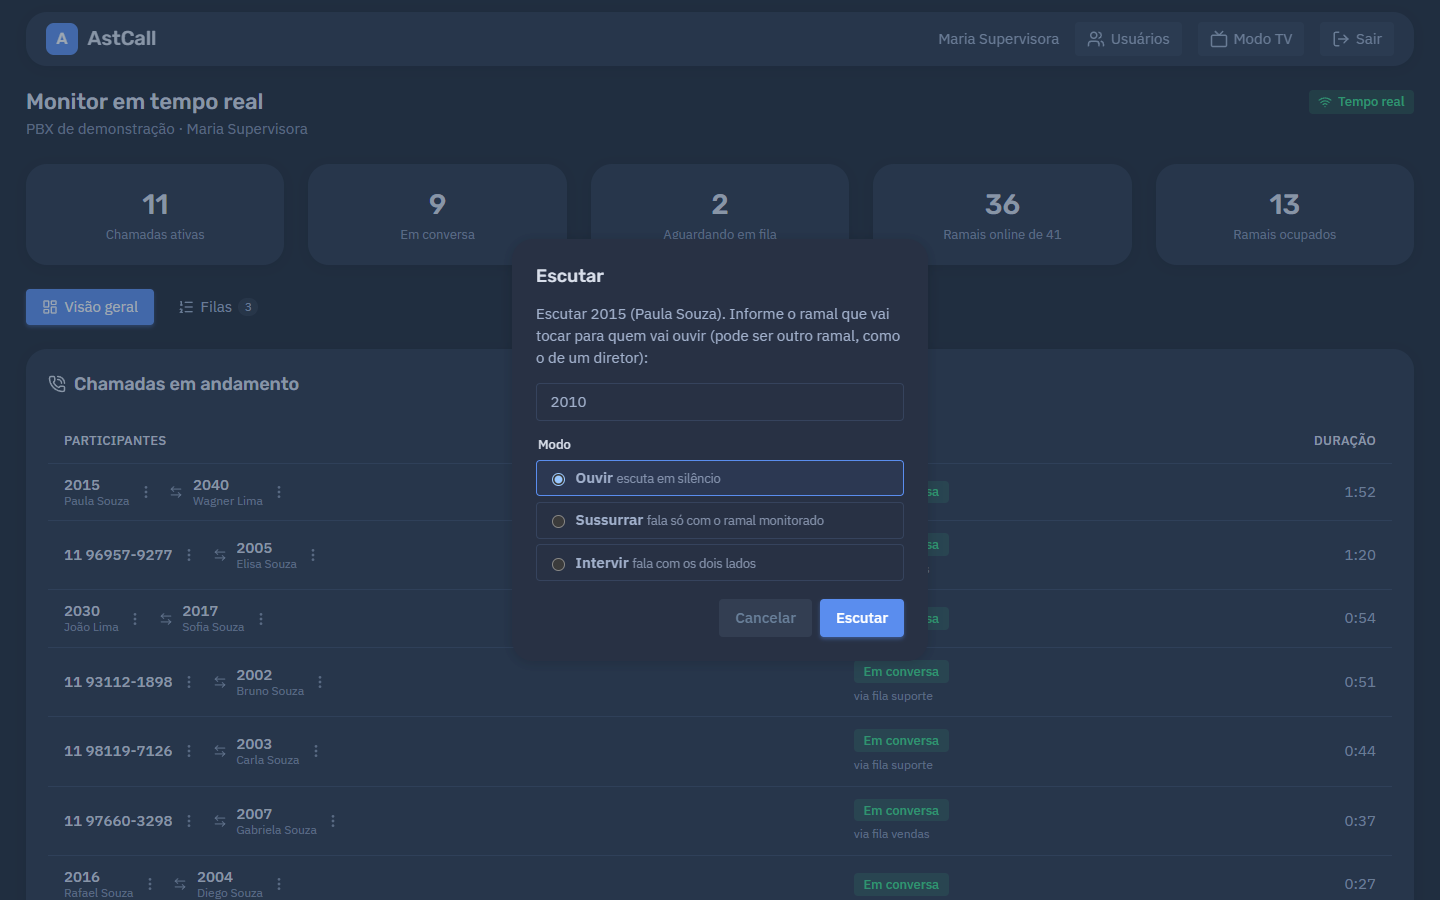
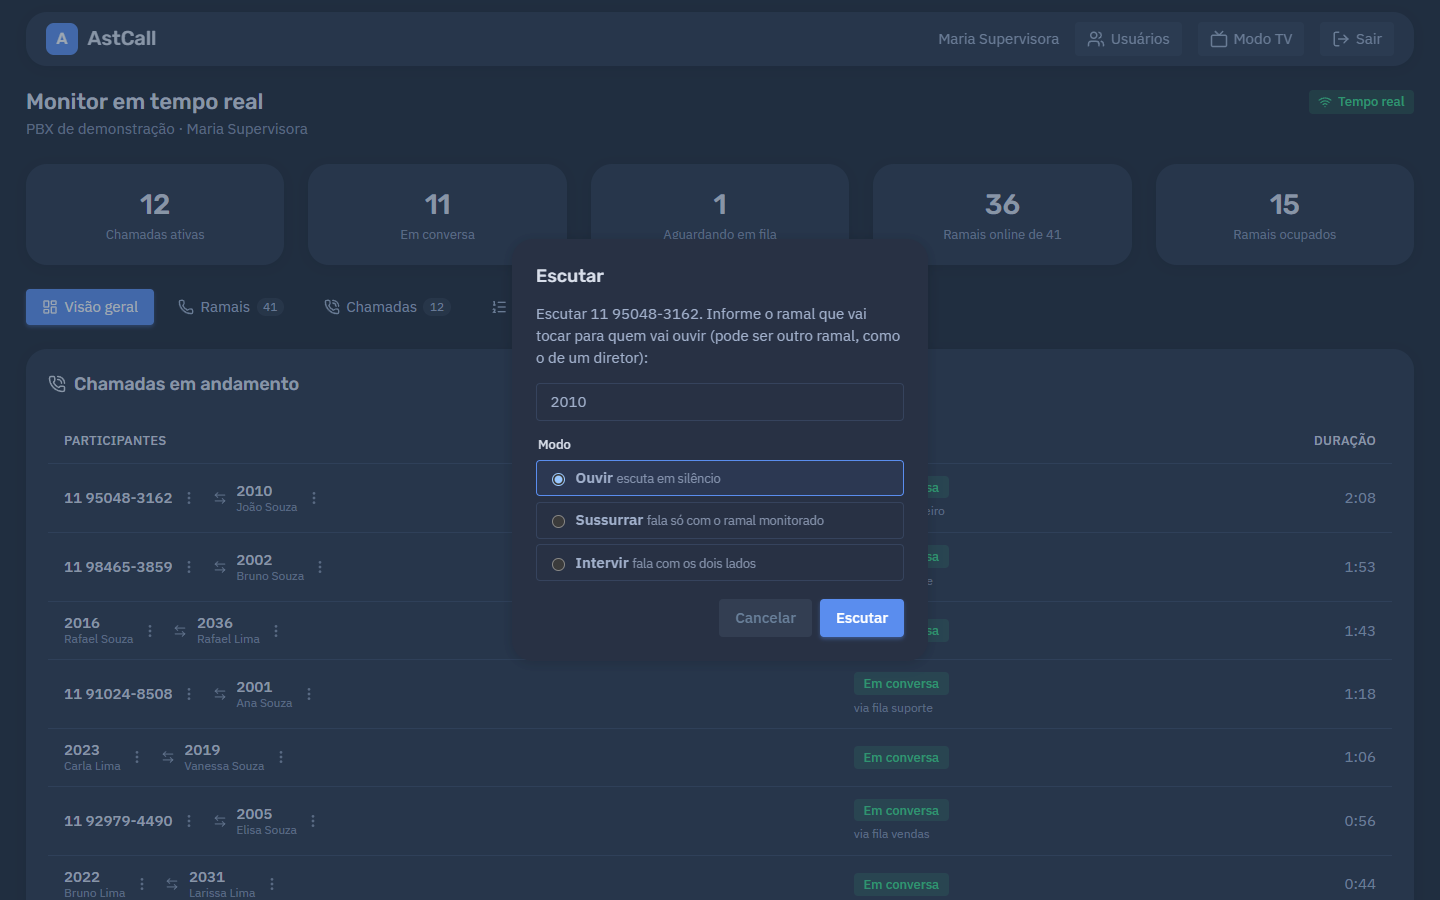
Abas Visão geral, Ramais, Chamadas e Filas no painel
- Visão geral mostra chamadas, ramais e filas; as demais abas mostram só
  a própria seção, com contador de itens
- Guia de uso com seções de Chamadas e Ramais e prints novos
- README usa o print da aba Chamadas, mais curto que o da Visão geral

diff --git a/apps/web/src/components/AstMonitor.ce.vue b/apps/web/src/components/AstMonitor.ce.vue
@@ -12,7 +12,15 @@
  * - watch: reage a mudanças de um valor.
  */
 import { computed, ref } from 'vue';
-import { LayoutDashboard, ListOrdered, Radio, Wifi, WifiOff } from 'lucide-vue-next';
+import {
+  LayoutDashboard,
+  ListOrdered,
+  Phone,
+  PhoneCall,
+  Radio,
+  Wifi,
+  WifiOff,
+} from 'lucide-vue-next';
 import { useWidgetRoot } from '../composables/useWidget';
 import { useMonitorStore } from '../stores/monitor';
 import CallList from './CallList.ce.vue';
@@ -62,8 +70,18 @@ const badge = computed(() => {
   return { tone: 'secondary', text: 'Conectando…', icon: Radio };
 });
 
-/** Aba de conteúdo selecionada. */
-const view = ref<'overview' | 'queues'>('overview');
+/** Aba de conteúdo selecionada. A Visão geral mostra o conteúdo de todas as outras. */
+type View = 'overview' | 'endpoints' | 'calls' | 'queues';
+const view = ref<View>('overview');
+const shows = (section: View) => view.value === 'overview' || view.value === section;
+
+/** Abas de conteúdo, com a quantidade de itens de cada uma (a Visão geral não tem contador). */
+const tabs = computed(() => [
+  { id: 'overview' as const, label: 'Visão geral', icon: LayoutDashboard, count: 0 },
+  { id: 'endpoints' as const, label: 'Ramais', icon: Phone, count: store.endpoints.length },
+  { id: 'calls' as const, label: 'Chamadas', icon: PhoneCall, count: store.calls.length },
+  { id: 'queues' as const, label: 'Filas', icon: ListOrdered, count: store.queues.length },
+]);
 
 /** Números do topo. */
 const stats = computed(() => {
@@ -141,32 +159,33 @@ const stats = computed(() => {
       </div>
     </section>
 
-    <!-- Abas de conteúdo. v-if/v-else monta só a aba ativa (a outra sai da página). -->
+    <!-- Abas de conteúdo. v-for repete o botão para cada item da lista `tabs`. -->
     <nav class="ast-tabs" aria-label="Seções">
       <button
+        v-for="tab in tabs"
+        :key="tab.id"
         type="button"
         class="ast-tab"
-        :class="{ active: view === 'overview' }"
-        @click="view = 'overview'"
+        :class="{ active: view === tab.id }"
+        @click="view = tab.id"
       >
-        <LayoutDashboard :size="16" aria-hidden="true" /> Visão geral
-      </button>
-      <button
-        type="button"
-        class="ast-tab"
-        :class="{ active: view === 'queues' }"
-        @click="view = 'queues'"
-      >
-        <ListOrdered :size="16" aria-hidden="true" /> Filas
-        <span v-if="store.queues.length" class="tab-count">{{ store.queues.length }}</span>
+        <component :is="tab.icon" :size="16" aria-hidden="true" /> {{ tab.label }}
+        <span v-if="tab.count" class="tab-count">{{ tab.count }}</span>
       </button>
     </nav>
 
-    <template v-if="view === 'overview'">
-      <CallList :calls="store.calls" :loading="!store.active?.hasSnapshot" />
-      <EndpointGrid :endpoints="store.endpoints" :loading="!store.active?.hasSnapshot" />
-    </template>
-    <QueuePanel v-else :queues="store.queues" :loading="!store.active?.hasSnapshot" />
+    <!-- v-if monta só o que a aba ativa mostra (o resto sai da página). -->
+    <CallList v-if="shows('calls')" :calls="store.calls" :loading="!store.active?.hasSnapshot" />
+    <EndpointGrid
+      v-if="shows('endpoints')"
+      :endpoints="store.endpoints"
+      :loading="!store.active?.hasSnapshot"
+    />
+    <QueuePanel
+      v-if="shows('queues')"
+      :queues="store.queues"
+      :loading="!store.active?.hasSnapshot"
+    />
 
     <ActionDialog />
     <ToastHost />

diff --git a/apps/realtime/scripts/docs-screenshots.ts b/apps/realtime/scripts/docs-screenshots.ts
@@ -170,6 +170,24 @@ const SHOTS: Shot[] = [
     prepare: MONITOR_READY,
   },
   {
+    file: 'chamadas.png',
+    path: '/',
+    theme: 'dark',
+    fullPage: true,
+    desc: 'aba Chamadas',
+    prepare: `${MONITOR_READY}
+      byText(root(), '.ast-tab', 'Chamadas').click(); await wait(500);`,
+  },
+  {
+    file: 'ramais.png',
+    path: '/',
+    theme: 'dark',
+    fullPage: true,
+    desc: 'aba Ramais',
+    prepare: `${MONITOR_READY}
+      byText(root(), '.ast-tab', 'Ramais').click(); await wait(500);`,
+  },
+  {
     file: 'menu-chamada.png',
     path: '/',
     theme: 'dark',
@@ -341,7 +359,7 @@ try {
       const h = await cdp.eval<number>('return document.documentElement.scrollHeight;');
       await cdp.send('Emulation.setDeviceMetricsOverride', {
         width: 1440,
-        height: Math.min(Math.max(h, 900), 3000),
+        height: Math.min(Math.max(h, 900), 4000),
         deviceScaleFactor: 1,
         mobile: false,
       });

diff --git a/docs/guias/uso-do-painel.md b/docs/guias/uso-do-painel.md
@@ -27,7 +27,18 @@ O selo no canto superior direito mostra a conexão: **Tempo real** (tudo certo),
 No topo, os números do momento: chamadas ativas, em conversa, aguardando em fila, ramais online e
 ramais ocupados.
 
-### Chamadas em andamento
+Logo abaixo ficam as abas:
+
+| Aba             | O que mostra                               |
+| --------------- | ------------------------------------------ |
+| **Visão geral** | tudo numa página: chamadas, ramais e filas |
+| **Ramais**      | só os ramais                               |
+| **Chamadas**    | só as chamadas em andamento                |
+| **Filas**       | só as filas                                |
+
+## Chamadas
+
+![Aba Chamadas](../img/chamadas.png)
 
 Cada linha é uma chamada, com os participantes (número e nome), a situação e a duração:
 
@@ -66,7 +77,9 @@ Ao lado de cada participante há um botão **⋮** com as ações sobre aquele l
 Só aparecem as ações que o seu usuário tem permissão de usar e que fazem sentido no momento (por
 exemplo, escutar e transferir só com a chamada em conversa).
 
-### Ramais
+## Ramais
+
+![Aba Ramais](../img/ramais.png)
 
 Cada cartão mostra o ramal, a situação (**Livre**, **Em uso**, **Ocupado**, **Tocando**, **Em
 espera**, **Indisponível**) e o aparelho registrado. Use os filtros **Todos / Livres / Em uso /

diff --git a/README.md b/README.md
@@ -36,7 +36,7 @@ Runs standalone (own login) or embedded in a PHP system. Try it without an Aster
 
 </details>
 
-![Visão geral do painel](docs/img/painel-escuro.png)
+![Chamadas em andamento no painel](docs/img/chamadas.png)
 
 ## O que ele faz
 
